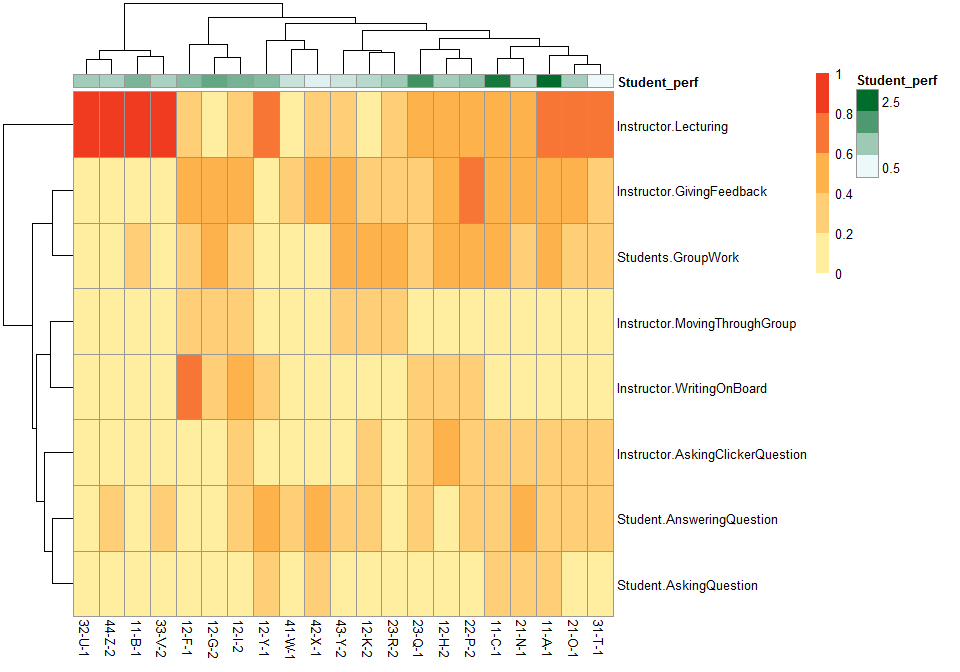
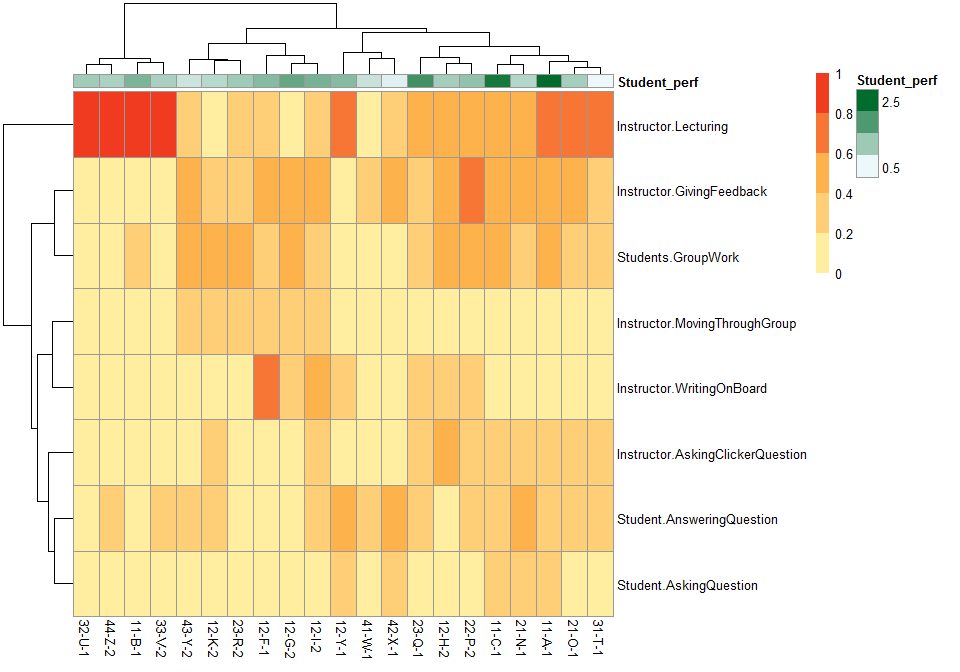
Added figures

diff --git a/COPUS-paper-10minsegments.md b/COPUS-paper-10minsegments.md
@@ -4,20 +4,9 @@ Tony Hui
 # Processing the data
 
 
-```r
-require(knitr)
-```
-
 ```
 ## Loading required package: knitr
 ```
-
-```r
-opts_chunk$set(echo=F, fig.width = 10, fig.height = 7)
-cluster_method <- "complete"
-```
-
-
 
 
 
@@ -63,8 +52,34 @@ Fractional time was calculated as a mean of all observations
 
 #### No clustering on columns
 
-![](COPUS-paper-10minsegments_files/figure-html/unnamed-chunk-9-1.png)
+![](COPUS-paper-10minsegments_files/figure-html/unnamed-chunk-8-1.png)
 
 #### No clustering on rows
 
+![](COPUS-paper-10minsegments_files/figure-html/unnamed-chunk-9-1.png)
+
+### first year only
+
 ![](COPUS-paper-10minsegments_files/figure-html/unnamed-chunk-10-1.png)
+
+## Rule association mining
+
+From first and second year classes
+
+![](COPUS-paper-10minsegments_files/figure-html/unnamed-chunk-11-1.png)
+
+```
+## Joining by: "id"
+```
+
+![](COPUS-paper-10minsegments_files/figure-html/unnamed-chunk-12-1.png)
+
+## Heatmap over time for the two clusters
+
+
+```
+## Joining by: "id"
+```
+
+![](COPUS-paper-10minsegments_files/figure-html/unnamed-chunk-13-1.png)![](COPUS-paper-10minsegments_files/figure-html/unnamed-chunk-13-2.png)
+
